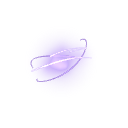
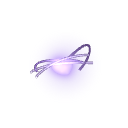
Finish local natural-feature readability and record art acceptance criteria

Changed region(s): [[0.2188, 0.2812, 0.75, 0.6562]]

diff --git a/frontend/components/space/webgl/feature-art.ts b/frontend/components/space/webgl/feature-art.ts
@@ -74,17 +74,17 @@ export function createFeatureModel(kind: FeatureArtKind, objectId: string): THRE
     pulse(material)
     return sprite
   }
-  const trace = (parent: THREE.Object3D, points: THREE.Vector3[], color: number, opacity: number, width = 0) => {
+  const trace = (parent: THREE.Object3D, points: THREE.Vector3[], color: number, opacity: number, width = 0, blending: THREE.Blending = THREE.AdditiveBlending) => {
     if (width) {
       const curve = new THREE.CatmullRomCurve3(points)
       const material = new THREE.MeshBasicMaterial({ color, transparent: true, opacity, depthWrite: false,
-        blending: THREE.AdditiveBlending, toneMapped: false })
+        blending, toneMapped: false })
       const mesh = new THREE.Mesh(new THREE.TubeGeometry(curve, points.length * 2, width, 4, false), material)
       parent.add(mesh)
       pulse(material)
     } else {
       const material = new THREE.LineBasicMaterial({ color, transparent: true, opacity, depthWrite: false,
-        blending: THREE.AdditiveBlending, toneMapped: false })
+        blending, toneMapped: false })
       parent.add(new THREE.Line(new THREE.BufferGeometry().setFromPoints(points), material))
       pulse(material)
     }
@@ -186,7 +186,11 @@ export function createFeatureModel(kind: FeatureArtKind, objectId: string): THRE
       const echo = new THREE.Group()
       echo.position.set((random() - 0.5) * 0.18, (random() - 0.5) * 0.22, (random() - 0.5) * 0.18)
       echo.rotation.set(i * 0.34, i * 1.7, i * 0.2)
-      trace(echo, arc(0.5 + i * 0.06, random() * 6, Math.PI * (0.8 + random() * 0.45)), i % 2 ? 0xe6d9ff : 0x9b7bd4, 0.8, 0.012)
+      const points = arc(0.5 + i * 0.06, random() * 6, Math.PI * (0.8 + random() * 0.45))
+      // Violet carriers preserve the broken halo on light HUD surfaces, while
+      // the narrower luminous traces remain legible against dark world space.
+      trace(echo, points, 0x50366e, 0.85, 0.025, THREE.NormalBlending)
+      trace(echo, points, i % 2 ? 0xe6d9ff : 0x9b7bd4, 0.8, 0.012)
       assembly.add(echo)
       animate(echo, 'y', (i % 2 ? -1 : 1) * 0.035)
     }
@@ -211,7 +215,9 @@ export function createFeatureModel(kind: FeatureArtKind, objectId: string): THRE
       const radius = 0.32 + i * 0.085
       const points = arc(radius, 0.1 + i * 0.05, Math.PI * 1.92, 0.6)
       for (const p of points) p.y += Math.exp(-Math.hypot(p.x, p.z) * 3) * -0.65
-      trace(field, points, i % 2 ? 0x7199cb : 0xadc4e0, 0.35 + (6 - i) * 0.06, i === 1 ? 0.012 : 0)
+      // Two substantial nested traces survive the 32px crop on dark panels;
+      // the other fine traces retain the broad, flattened lens silhouette.
+      trace(field, points, i % 2 ? 0x7199cb : 0xadc4e0, 0.48 + (6 - i) * 0.055, i === 1 ? 0.018 : i === 3 ? 0.011 : 0)
     }
     animate(field, 'y', 0.018)
   } else {

diff --git a/.scratch/weekend-visual-batch/acceptance.md b/.scratch/weekend-visual-batch/acceptance.md
@@ -1,0 +1,86 @@
+# Local art acceptance — 2026-10-16
+
+Decision owner: agent acting under Travis's delegated reversible art-selection
+authority in brief.md. This records completion against that brief, not new personal
+approval from Travis, acceptance of future race lore, or completion of the whole
+weekend request. Earlier draft matrices remain historical checkpoints.
+
+## Criteria used
+
+- At actual32px on dark#0e1a26 and light#e4edf2, each category retains its identifying
+  structure, not merely a different hue. At128px the same art must retain the
+  intended material/phenomenon. No baked status, ownership, hazard or analysis state.
+- Close35 and gameplay120 world review must preserve that category's distinguishing
+  shape through the same factory. Distant240 intentionally requires labels/HUD or
+  zoom-in; fine art is not readable at arbitrarily small projected size.
+- Accepted gate hardware/portal remain unchanged. Natural effects do not inherit
+  manufactured metallic architecture. Ruin/debris must be angular engineered
+  objects with graphite structure/light gray plating/sparse amber, not natural rocks.
+- Resource ownership/disposal, seeded variants, frozen decorative time and preserved
+  mark transforms remain covered by feature-art tests. Inspect real WebGPU and real
+  WebGL2 output; controlled unavailable/Retry story covers renderer creation recovery.
+- Keep the running protected build unchanged during this local-only review. No
+  comparison sheet upload, publication, new exposure or private reference upload.
+
+## Completed / remaining matrix
+
+| Category | Decision | Observable acceptance evidence / concrete remaining limit |
+| --- | --- | --- |
+| Gate thumbnail | Complete | Two separate industrial halves frame the full-open blue membrane at32px on both surfaces. Uses accepted GLB/portal; no gate source, world behavior or PNG changed in this pass. Fine panel seams are intentionally lost at32px. |
+| Anomaly | Complete locally after refinement | Offset broken violet arcs remain readable around an obscured luminous center, without hardware or a gate aperture. Added restrained normal-blended violet carriers beneath the light traces. Actual32px light/dark and native/compatibility world review pass. |
+| Nebula | Complete | Broad irregular blue/rose filament cloud with gaps, visibly wider/softer than the compact anomaly or radial radiation. Existing PNG/factory retained after actual32px and world review. Tiny individual stars/filaments are not expected at gameplay distance. |
+| Gravity well | Complete locally after refinement | Dark center and flattened nested lens traces remain distinct from luminous anomaly. Strengthened two structural traces and ring opacity; actual32px dark/light and both renderer world reviews pass. Not a physically accurate lens simulation. |
+| Radiation | Complete | Open mint/gold rays and particles retain a radial/dispersed silhouette; darker carriers retain structure on light panels. Existing revised factory/PNG retained. Does not imply active damage or warning severity. |
+| Ruin | Incomplete: architectural silhouette/finish | Current upright capped modules and broad lower slab still read as a blocky tower cluster, rather than a clearly fractured asymmetric structural spine. Engineered family colors are present, but surface finish is simpler than accepted gate. Soft generated01 is rejected for replacement. |
+| Debris | Incomplete: fragment separation/finish | Current overlapping plate clusters can merge into a single compact slab silhouette at32px/gameplay angle. Need clearly detached substantial hull fragments and visible gaps, with exposed ribs/cut plate thickness. Rounded generated01 pods are rejected for replacement. |
+
+## Refinement evidence
+
+Only anomaly.png and gravity_well.png changed after deterministic recapture of all
+15 thumbnails. Other13 PNGs, including gate/nebula/radiation, are byte-identical to
+the prior committed versions. Both changed images are128px transparent sources;
+actual browser display remains32×32.
+
+Supporting pixel diagnostic: downscale the PNG to32px, alpha-composite against the
+two reference surfaces, convert sRGB to relative luminance and count pixels at a
+ratio of at least1.5:1 against that surface. This measures retained local structure;
+it is not a recognition study or accessibility conformance assertion.
+
+| Category / surface | Before | After |
+| --- | --- | --- |
+| Anomaly / light | 6 | 33 |
+| Anomaly / dark | 96 | 92 |
+| Gravity well / dark | 38 | 58 |
+| Gravity well / light | 49 | 51 |
+
+The small anomaly dark-side reduction trades excess pale glow for readable arc
+structure while retaining92 contrasting pixels. Visual browser review confirms
+the broken halo still reads on dark. World geometry stays within the existing
+normalized mark footprint; no gameplay radius, picking or camera change.
+
+Verification: feature-art20 tests pass, TypeScript and scoped lint pass, offline
+capture succeeds, file validators pass. Actual Chrome data-renderer-backend and
+ready state confirm native WebGPU and real WebGL2. Earlier manual controlled
+failure/Retry check restored actual WebGPU while seven static thumbnails remained.
+Physical device loss and iPhone graphics remain outside these proven checks.
+
+## Specific next steps
+
+1. Local ruin revision: replace the tower row with one incomplete asymmetric spine,
+   three broad buttresses of unequal lengths, one leaning rib and a detached plate.
+   Pass when the broken main arc, graphite gaps and gray plate faces survive32px
+   on both surfaces and gameplay120; reject intact gate/ring/base silhouettes.
+2. Local debris revision: one dominant ruptured hull section plus2–4 detached
+   substantial sections, with at least two clearly visible background gaps at32px.
+   Preserve thickness/bevels and sparse amber; reject intact vehicles/rocks/pods.
+3. For each manufactured revision, compare against accepted gate in the same light
+   rig, actual SpaceWorld close/gameplay and native/WebGL2. Recapture only after
+   silhouette/material pass; verify gate and unrelated thumbnails remain unchanged.
+4. Sharper image-guided Meshy ruin generation remains an OPTIONAL alternate path,
+   blocked until explicit private-reference upload consent. Do not retry or spend
+   credits in the meantime; local authored improvement does not require that upload.
+5. Before any later preview promotion, report the exact locally changed art. Current
+   protected game/Storybook still serve the preceding captured/build versions.
+   No consent, endpoint, deadline or agent-guide change is part of art promotion.
+
+No comparison image was added to public/, external Storybook, or any upload service.

diff --git a/.scratch/weekend-visual-batch/status.md b/.scratch/weekend-visual-batch/status.md
@@ -147,3 +147,16 @@ Meshy private reference upload remains separately unapproved.
 - Bootstrap audit45 resources passes; API401 and invalid login/lookup/refresh JSON400
   confirm narrow routing. No further public paths added. Valid remote game login and
   token refresh still require actual user verification; no session cookie reused.
+
+## Local art completion decision
+
+See acceptance.md for explicit criteria, completed/remaining matrix and testable
+next steps. Gate thumbnail, anomaly, nebula, gravity well and radiation now pass
+the delegated art brief; this is an agent art decision, not personal Travis approval.
+Anomaly light-surface halo and gravity dark-surface lens strengthened locally.
+Feature-art20 tests, type/lint, native/WebGL2 world and actual32px reviews pass.
+Only those two PNGs changed; other13, including accepted gate, are unchanged.
+Ruin's tower/slab architecture and debris's overlapping silhouette remain specific
+unfinished work. Local revision steps are documented; Meshy upload is optional and
+still blocked. Protected preview/build remains unchanged during these local edits.
+No comparison image uploaded or published. Entire weekend work is not complete.
